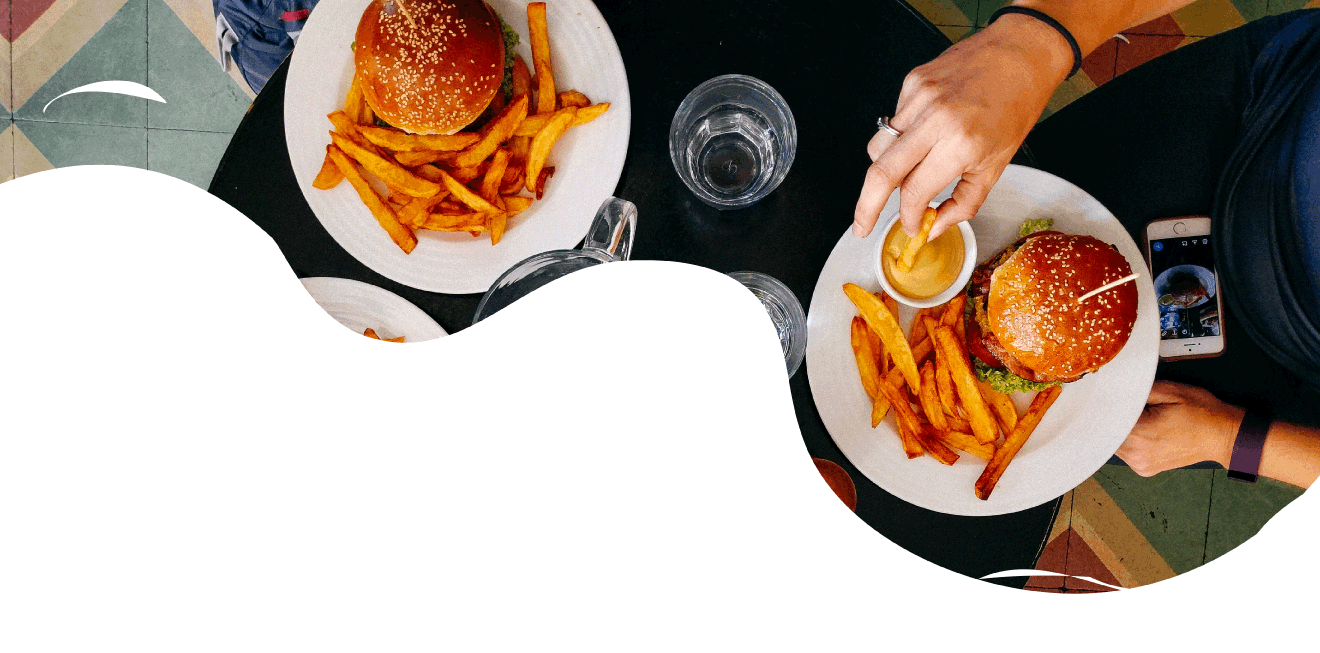
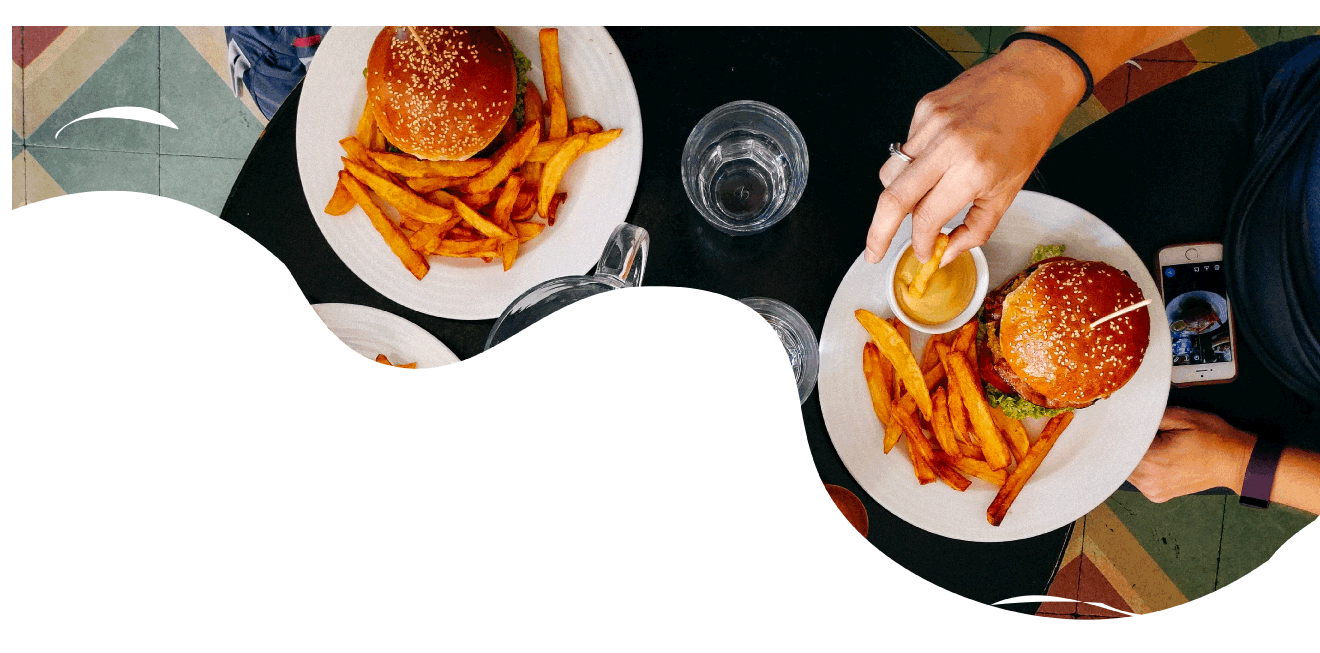
changes vol.1

diff --git a/resources/js/components/pages/RestaurantComp.vue b/resources/js/components/pages/RestaurantComp.vue
@@ -2,7 +2,7 @@
 
   <div class="restaurants text-center">
     <div class="jumbo">
-      <img :src="'img/try1.png'" alt="">
+      <img :src="'img/p2.jpg'" alt="">
 
       <div class="jumbo-text">
       <div class="banner-text text-uppercase question">Categorie</div>
@@ -22,6 +22,7 @@
             
           </label>
         </div>
+        <div><i class="fa-solid fa-xmark"></i></div>
 
     </div>
 
@@ -40,7 +41,21 @@
                 <router-link class="btn btn-primary" :to="{ name: 'Menu', params: {slug: resturant.slug} }" >Vai al ristorante</router-link>
             </div>
         </div>
+     
       </div>
+
+
+      <!-- <div class="rest_wrap">
+        <div class="rest_item">
+          <div class="rest_img">
+            <div class="img_wrap">
+              <img src="https://supatainment.com/wp-content/uploads/2022/08/der-erste-dsds-juror-neben-dieter-bohlen-steht-fest.jpg" alt="">
+            </div>
+
+          </div>
+        </div>
+
+      </div> -->
 
 
      <!-- <div class="line mt-2"></div> -->
@@ -146,11 +161,12 @@
   .jumbo{
     position:relative;
     width: 100%;
-    height: 35rem;
+    height: 36rem;
     display: flex;
     align-items: center;
     justify-content: center;
     overflow:hidden;
+    margin-bottom: 3rem;
     .jumbo-text{
       position:absolute;
       position:absolute;
@@ -162,7 +178,7 @@
       .question{
         font-size: 5rem;
         font-weight: 700;
-        color: black;
+        color: rgb(255, 255, 255);
         text-transform: uppercase;
         animation: mymove 2s ease;
         margin-bottom:1rem;
@@ -170,10 +186,11 @@
       h3{
       animation: h3move 2s ease;
       padding-left:1rem;
+      color: white;
       }
     }
     img{
-      height:41rem;
+      // height:41rem;
       width:100%;
     }    
     .fa-arrow-down{
@@ -187,7 +204,7 @@
 
   .resturant-container{
   gap: 10px;
-  margin: 0 auto;
+  margin: 5rem auto;
   justify-content: center;
   }
   h2{
@@ -206,13 +223,20 @@
   }
   .input-wrap{
     display: flex;
+    flex-wrap: wrap;
     min-height: 50px;
-    align-items: start;
-    width: 93%;
+    justify-content: start;
+    align-items: center;
+    width: 86%;
     margin: 0 auto;
-    padding: 130px 60px 50px 60px;
+    padding-left: 35px;
+    margin-top: 2rem;
+    // margin-bottom:5rem;
     .text-box{
       margin-right:12px;
+    }
+    div:last-child{
+     justify-self: end;
     }
   }
 
@@ -226,11 +250,11 @@
 
   .my_btn{
     color: black;
-    background-color: $green_salad;
+    background-color: #BECFBC;
     border-radius: 20px;
     border: 3px solid black;
     font-size: 20px;
-    padding: 5px 20px;
+    padding: 10px 31px;
     &:hover{
       background-color: darken($green_salad, 20%);
     }
@@ -256,8 +280,10 @@
   overflow: hidden;
   box-shadow: 0 0 10px gray;
   img {
-  object-fit: cover;
-  width:100%;
+    height: 100%;
+    object-fit: cover;
+    max-width: 100%;
+    display: inline-block;
    &:hover{
     filter: blur(5px);
     // transform: scale(1.3);

diff --git a/resources/js/components/partials/HeaderComp.vue b/resources/js/components/partials/HeaderComp.vue
@@ -13,7 +13,7 @@
               <li class="home"><router-link :to="{name:'home'}">Home</router-link></li>
               <li class="restors"><router-link :to="{name:'restaurants'}">Ristoranti</router-link></li>
               <li class="about"><router-link :to="{name:'about'}">Chi Siamo</router-link></li>
-              <li class="home"><a :href="'/login'">Accedi o registrati</a></li>
+              <li class="home"><a :href="'/login'">Area Ristoratore</a></li>
             </ul>
           </nav>
 
@@ -40,7 +40,7 @@
           <li class="home"><router-link :to="{name:'home'}">Home</router-link></li>
               <li class="restors"><router-link :to="{name:'restaurants'}">Ristoranti</router-link></li>
               <li class="about"><router-link :to="{name:'about'}">Chi Siamo</router-link></li>
-              <li class="home"><a :href="'/login'">Accedi o registrati</a></li>
+              <li class="home"><a :href="'/login'">Area Ristoratore</a></li>
         </ul>
        <!-- END OF HAMBURGER -->
       </header>
@@ -97,9 +97,12 @@ header{
       cursor: pointer;
       line-height: 30px;
       list-style:none;
+      // font-size:18px;
+      // font-weight: 600;
       a{
         &:hover{
           text-decoration: none !important;
+
         }
       }
 

diff --git a/resources/views/layouts/admin.blade.php b/resources/views/layouts/admin.blade.php
@@ -38,7 +38,7 @@
 
             <div class="d-flex justify-content-between w-100 pt-2">
                 <div>
-                    <a class="about {{ Route::currentRouteName() === '/' ? 'active' : ''}}" href="{{ url('/') }}">Go Back</a>
+                    <a class="about {{ Route::currentRouteName() === '/' ? 'active' : ''}}" href="{{ url('/') }}"> <i class="fa-solid fa-arrow-left"></i> Sito Pubblico</a>
                 </div>
 
                 <div class="d-flex">
